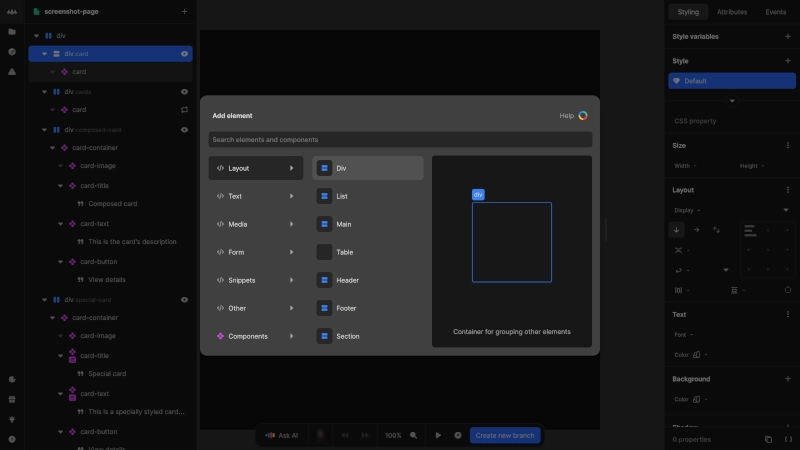
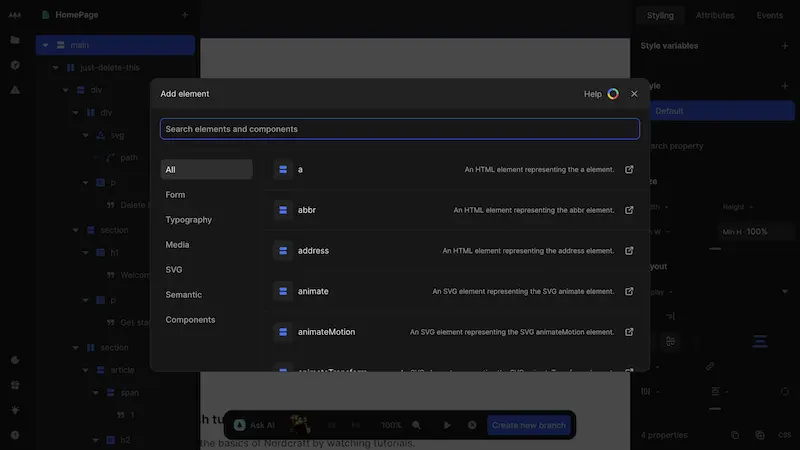
Update element catlogue with new screenshots and updated copy (#302)

diff --git a/docs/06-the-editor/04-element-tree/index.md b/docs/06-the-editor/04-element-tree/index.md
@@ -5,7 +5,7 @@ description: Understand the Nordcraft element tree for structural editing, eleme
 
 # Element tree
 
-The element tree provides a structural overview of your project, displaying all elements and componenents in your page or component hierarchically.
+The element tree provides a structural overview of your project, displaying all HTML elements and Nordcraft components in your page or component hierarchically.
 
 ![Element tree|16/9](element-tree.webp){https://editor.nordcraft.com/projects/docs_examples/branches/main/components/screenshot-page?canvas-width=800&canvas-height=800}
 
@@ -49,14 +49,15 @@ Add a new element in one of three ways:
 
 ![Element catalog|16/9](element-catalog.webp){https://editor.nordcraft.com/projects/docs_examples/branches/main/components/screenshot-page?rightpanel=style&canvas-width=800&canvas-height=800&selection=nodes.m6MApQ1ZZSiZ5iH6kAUWE&elementCatalog=true}
 
-The element catalog provides a collection of HTML elements and components organized by category. This makes it easy to find exactly what you need for your project. The catalog allows you to:
+The element catalog contains all HTML elements for you to add to your project, including existing components defined in your project. Use the element catalog to:
 
-- Browse different element types grouped by functionality
-- Search for specific elements and components
+- Browse different HTML element types grouped by category
+- Search for specific HTML elements by tag name and aliases (for example, you can search for `link` to find the HTML `a` tag)
+- Search for project components by name
 - View components from installed packages
 
 Select an element to add it to your project. The element will be added as a child of the currently selected element or as the first child of the root element if no element is selected.
 
 ::: tip
-The Nordcraft element catalog contains the most commonly used HTML elements. To add an element that is not listed in the catalog, add any element, and edit its `Tag` under `Attributes` in the Right panel.
+If you need to change the tag name of an HTML element, edit its `Tag` under `Attributes` in the right panel. This saves you having to delete and re-add elements.
 :::
